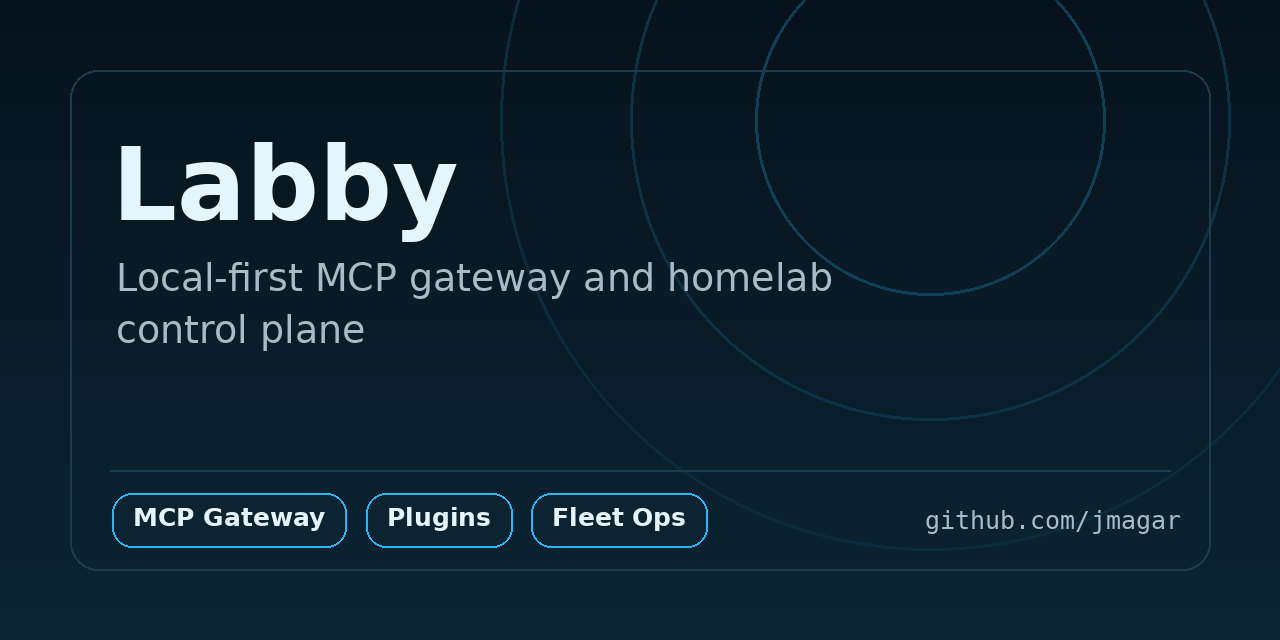
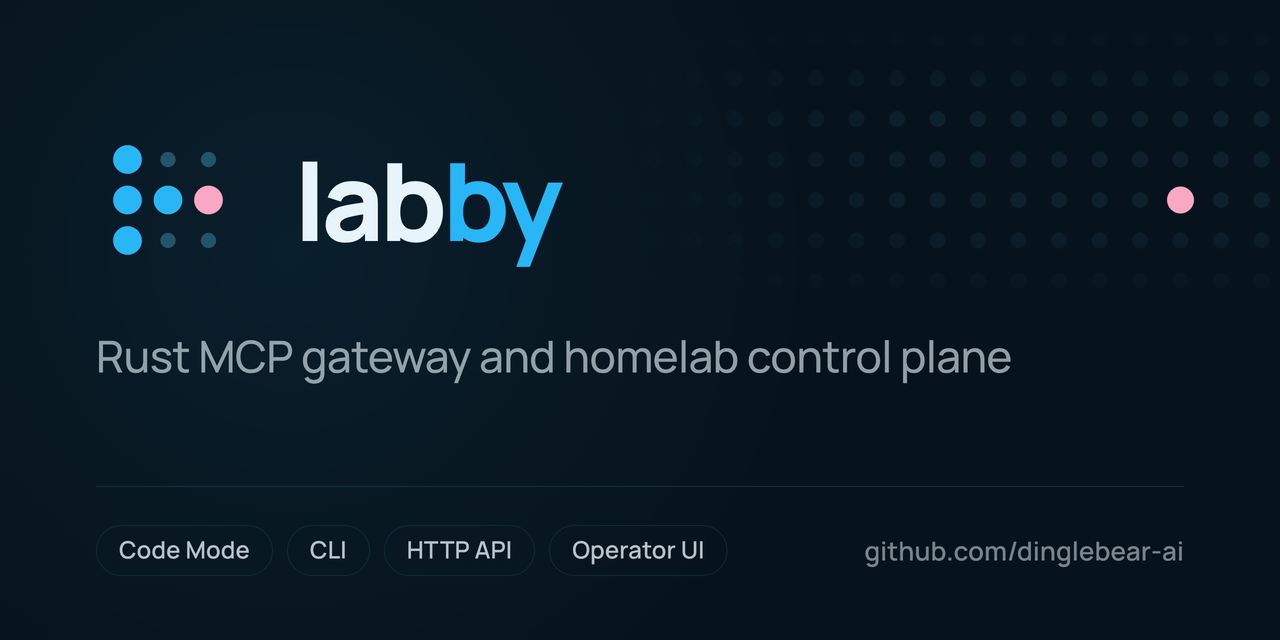
docs(brand): regenerate social preview on the 4A Cell Matrix identity
The 1280x640 GitHub social preview still carried the retired identity -- a
large "Labby" wordmark over faint concentric circles -- and its corner read
github.com/jmagar, which now survives only as a transfer redirect.

Rebuild it on the dinglebear-ai 4A Cell Matrix system using labby's registered
pattern (lit cells 0,0 / 0,1 / 0,2 / 1,1 / 2,1, role cell 2,1 in rose) and the
Manrope 800 wordmark treatment. Mark scale, the mark-to-wordmark gap, and the
rose accent radius are derived from badge-labby.svg rather than eyeballed, and
the field behind the lockup is the same cell matrix unlit, phase-locked to the
mark's own cells. The capability chips no longer advertise Fleet Ops, a retired
product; they name current surfaces taken from the crate description.

Commit the template and renderer next to the asset. Manrope is not installed on
the fleet, so the variable font is fetched and embedded as a base64 data URI and
the card is rasterised by headless Chrome at 2x, then downsampled -- the PNG has
no font dependency for any viewer, and the render is byte-reproducible.

Note that nothing in CI reads .github/social-preview.png. GitHub serves the
social preview only from an image uploaded through repository settings, so a new
card must still be uploaded by hand; the new directory README says so.

diff --git a/docs/assets/brand/social-preview.template.html b/docs/assets/brand/social-preview.template.html
@@ -1,0 +1,147 @@
+<meta charset="utf-8">
+<style>
+@font-face {
+  font-family: 'Manrope';
+  src: url(data:font/ttf;base64,__FONT__) format('truetype');
+  font-weight: 200 800;
+  font-style: normal;
+}
+* { margin: 0; padding: 0; box-sizing: border-box; }
+html, body { width: 1280px; height: 640px; background: #07131c; }
+
+.card {
+  position: relative;
+  width: 1280px; height: 640px;
+  background: #07131c;
+  overflow: hidden;
+  font-family: 'Manrope', sans-serif;
+  -webkit-font-smoothing: antialiased;
+  text-rendering: geometricPrecision;
+}
+
+/* Very soft cyan lift behind the mark — keeps the flat brand ground from
+   reading dead at poster size. Max alpha 0.075. */
+.glow {
+  position: absolute;
+  left: -300px; top: -340px;
+  width: 1180px; height: 1180px;
+  background: radial-gradient(circle,
+    rgba(41,182,246,0.075) 0%,
+    rgba(41,182,246,0.028) 38%,
+    rgba(41,182,246,0) 64%);
+}
+
+/* The cell matrix continued, unlit. Same 18-unit pitch and same dim-cell
+   radius as the mark (18 x 2.25 = 40.5px pitch, r 3.4 x 2.25 = 7.65px),
+   phase-locked to the mark's own cells so the field and the mark are one
+   grid. Masked to fade in only right of the wordmark. */
+.lattice {
+  position: absolute; inset: 0;
+  background-image: radial-gradient(circle at center,
+    #24536c 0 7.65px, rgba(36,83,108,0) 8.2px);
+  background-size: 40.5px 40.5px;
+  background-position: 107.25px 139.25px;
+  opacity: 0.22;
+  -webkit-mask-image:
+    linear-gradient(to right, transparent 46%, #000 74%, #000 100%),
+    linear-gradient(to bottom, transparent 4%, #000 17%, #000 33%, transparent 49%);
+  -webkit-mask-composite: source-in;
+  mask-composite: intersect;
+}
+
+/* Lockup: mark + wordmark. Mark box 144px (64-unit grid at 2.25x),
+   gap 54px = 0.375 x mark size, matching badge-labby.svg proportions. */
+.lockup {
+  position: absolute;
+  left: 96px; top: 128px;
+  display: flex; align-items: center; gap: 54px;
+}
+.mark { width: 144px; height: 144px; display: block; }
+.word {
+  font-size: 108px; font-weight: 800;
+  letter-spacing: -0.042em;
+  color: #e8f4fb;
+  line-height: 1;
+}
+.word .suffix { color: #29b6f6; }
+
+/* Role-hue accent, echoing the lone rose dot in badge-labby.svg — there it is
+   ~0.94 of a lit-cell radius, so 6.4 x 2.25 x 0.94 = 13.5px here. Snapped to a
+   lattice node (x 1180.5, y 200) so it reads as one lit cell in the field,
+   on the lockup's optical axis. */
+.dot {
+  position: absolute;
+  left: 1167px; top: 186.5px;
+  width: 27px; height: 27px;
+  border-radius: 50%;
+  background: #f9a8c4;
+}
+
+.tag {
+  position: absolute;
+  left: 96px; top: 326px;
+  font-size: 44px; font-weight: 500;
+  letter-spacing: -0.012em;
+  color: #e8f4fb; opacity: 0.62;
+}
+
+.foot { position: absolute; left: 96px; right: 96px; bottom: 64px; }
+.rule { height: 1px; background: #14303f; }
+.row {
+  margin-top: 38px;
+  display: flex; align-items: center; justify-content: space-between;
+}
+.chips { display: flex; gap: 14px; }
+.chip {
+  border: 1px solid #14303f; border-radius: 999px;
+  padding: 12px 22px 13px;
+  font-size: 24px; font-weight: 600;
+  letter-spacing: 0.005em;
+  color: #e8f4fb; opacity: 0.78;
+  line-height: 1;
+}
+.url {
+  font-size: 26px; font-weight: 600;
+  letter-spacing: 0.005em;
+  color: #e8f4fb; opacity: 0.5;
+}
+</style>
+
+<div class="card">
+  <div class="glow"></div>
+  <div class="lattice"></div>
+
+  <div class="lockup">
+    <!-- dinglebear-ai 4A Cell Matrix — labby pattern.
+         Lit (col,row): 0,0 · 0,1 · 0,2 · 1,1 · 2,1 ; role cell 2,1 rose. -->
+    <svg class="mark" viewBox="0 0 64 64" xmlns="http://www.w3.org/2000/svg">
+      <circle cx="32" cy="14" r="3.4" fill="#24536c"></circle>
+      <circle cx="32" cy="50" r="3.4" fill="#24536c"></circle>
+      <circle cx="50" cy="14" r="3.4" fill="#24536c"></circle>
+      <circle cx="50" cy="50" r="3.4" fill="#24536c"></circle>
+      <circle cx="14" cy="14" r="6.4" fill="#29b6f6"></circle>
+      <circle cx="14" cy="32" r="6.4" fill="#29b6f6"></circle>
+      <circle cx="14" cy="50" r="6.4" fill="#29b6f6"></circle>
+      <circle cx="32" cy="32" r="6.4" fill="#29b6f6"></circle>
+      <circle cx="50" cy="32" r="6.4" fill="#f9a8c4"></circle>
+    </svg>
+    <div class="word">lab<span class="suffix">by</span></div>
+  </div>
+
+  <div class="dot"></div>
+
+  <div class="tag">Rust MCP gateway and homelab control plane</div>
+
+  <div class="foot">
+    <div class="rule"></div>
+    <div class="row">
+      <div class="chips">
+        <div class="chip">Code Mode</div>
+        <div class="chip">CLI</div>
+        <div class="chip">HTTP API</div>
+        <div class="chip">Operator UI</div>
+      </div>
+      <div class="url">github.com/dinglebear-ai</div>
+    </div>
+  </div>
+</div>

diff --git a/docs/assets/brand/README.md b/docs/assets/brand/README.md
@@ -1,0 +1,66 @@
+# Brand Assets
+
+Rendered brand assets for `labby`, plus the source needed to regenerate them.
+
+| File | What | Consumed by |
+|---|---|---|
+| `labby-banner.png` | 880x180 README header banner | root `README.md`, and Community Applications via `unraid/ca/labby.xml` |
+| `social-preview.png` (in `.github/`) | 1280x640 GitHub social preview card | uploaded by hand — see below |
+| `social-preview.template.html` | Source for the card above | `render-social-preview.sh` |
+| `render-social-preview.sh` | Renders the card to `.github/social-preview.png` | run by hand |
+
+The 460x460 avatar mark lives at `icon.svg` in the repository root, where the
+Unraid plugin and packaging metadata expect it.
+
+## The mark
+
+These assets use the dinglebear-ai **4A Cell Matrix** mark system: a 3x3 dot
+field on a 64-unit box, cells at 14 / 32 / 50 on both axes. A lit cell is
+r=6.4 in cyan `#29b6f6`, a dim cell is r=3.4 in `#24536c`, and exactly one
+role cell per mark is r=6.4 in the product hue. Ground is `#07131c`.
+
+Labby's registered pattern is lit cells (col,row) `0,0 · 0,1 · 0,2 · 1,1 · 2,1`
+with the role cell at `2,1` in rose `#f9a8c4`. Wordmark is Manrope 800 at
+`-0.042em`, base ink `#e8f4fb` with a cyan `#29b6f6` suffix — `lab` + `by`.
+
+**Do not improvise new marks here.** The system of record — the pattern
+register for every repo, plus lockups, badges, mono variants, favicons, and
+avatars — is the Claude Design project *"Axon, Labby, Cortex Logo System"*
+(`brand/README.md`). Pull from there, and register any new pattern there
+first so two repos never collide on the same cell arrangement.
+
+## Why these are PNGs and not SVGs
+
+The lockups and badges set live Manrope 800 text with tuned letter-spacing.
+Manrope is not installed on the fleet, so an SVG with live text falls back to a
+generic sans and the metrics drift — wrong weight, wrong tracking, misaligned
+against the mark. Every asset here is rendered at 2x with the font embedded, so
+it carries no font dependency for any viewer.
+
+## Regenerating the social preview
+
+```bash
+docs/assets/brand/render-social-preview.sh
+```
+
+The script fetches the Manrope variable font, inlines it as a base64 data URI,
+rasterises the template with headless Chrome at 2x, and downsamples to exactly
+1280x640. It needs Chrome (or Chromium) and `curl`, plus either a Python with
+Pillow or `uv` on `PATH`. The font is fetched to a temporary directory and is
+never committed.
+
+Edit `social-preview.template.html` to change the card; the `__FONT__` token in
+its `@font-face` block is the substitution point and must survive edits.
+
+## Uploading the social preview — this part is manual
+
+**Committing `.github/social-preview.png` does not change what GitHub serves.**
+Nothing in CI reads that file. GitHub serves the social preview from an image
+uploaded through the web UI, and there is no API or workflow that can set it.
+
+After regenerating, upload it at **Settings → General → Social preview**, which
+requires repository admin. Until then, link unfurls keep showing whatever was
+uploaded last — potentially an image with long-outdated branding.
+
+The file is kept in the repository anyway so the current card is versioned,
+reviewable, and regenerable, rather than existing only inside GitHub's settings.

diff --git a/docs/README.md b/docs/README.md
@@ -13,6 +13,7 @@ The docs are split by topic so contributors do not have to recover architecture,
 - Use [SERVICES.md](./dev/SERVICES.md), [CLI.md](./surfaces/CLI.md), and [MCP.md](./surfaces/MCP.md) for current surface-specific behavior. [MCP_CONFORMANCE.md](./surfaces/MCP_CONFORMANCE.md) records the rmcp 3.1.0 and MCP 2026-07-28 conformance contract. [TUI.md](./surfaces/TUI.md) records deferred TUI status.
 - Use [design/CLI_DESIGN_SYSTEM.md](./design/CLI_DESIGN_SYSTEM.md) for the human-readable CLI output language and shared color policy.
 - Use [design/component-development.md](./design/component-development.md) and [design/design-system-contract.md](./design/design-system-contract.md) when building or revising Labby web UI components.
+- Use [assets/brand/README.md](./assets/brand/README.md) for the brand mark system, the rendered brand assets and how to regenerate them, and the manual GitHub social-preview upload step.
 - Use [CONFIG.md](./runtime/CONFIG.md), [INCUS.md](./runtime/INCUS.md), [HOST_GATEWAY.md](./runtime/HOST_GATEWAY.md), and [OPERATIONS.md](./OPERATIONS.md) for setup, recommended Incus deployment, gateway runtime choices, and operator workflows.
 - Use [guides/STDIO_MCP_PROXY.md](./guides/STDIO_MCP_PROXY.md) to expose one
   stdio MCP server directly over loopback or an owned Tailscale Serve port.
